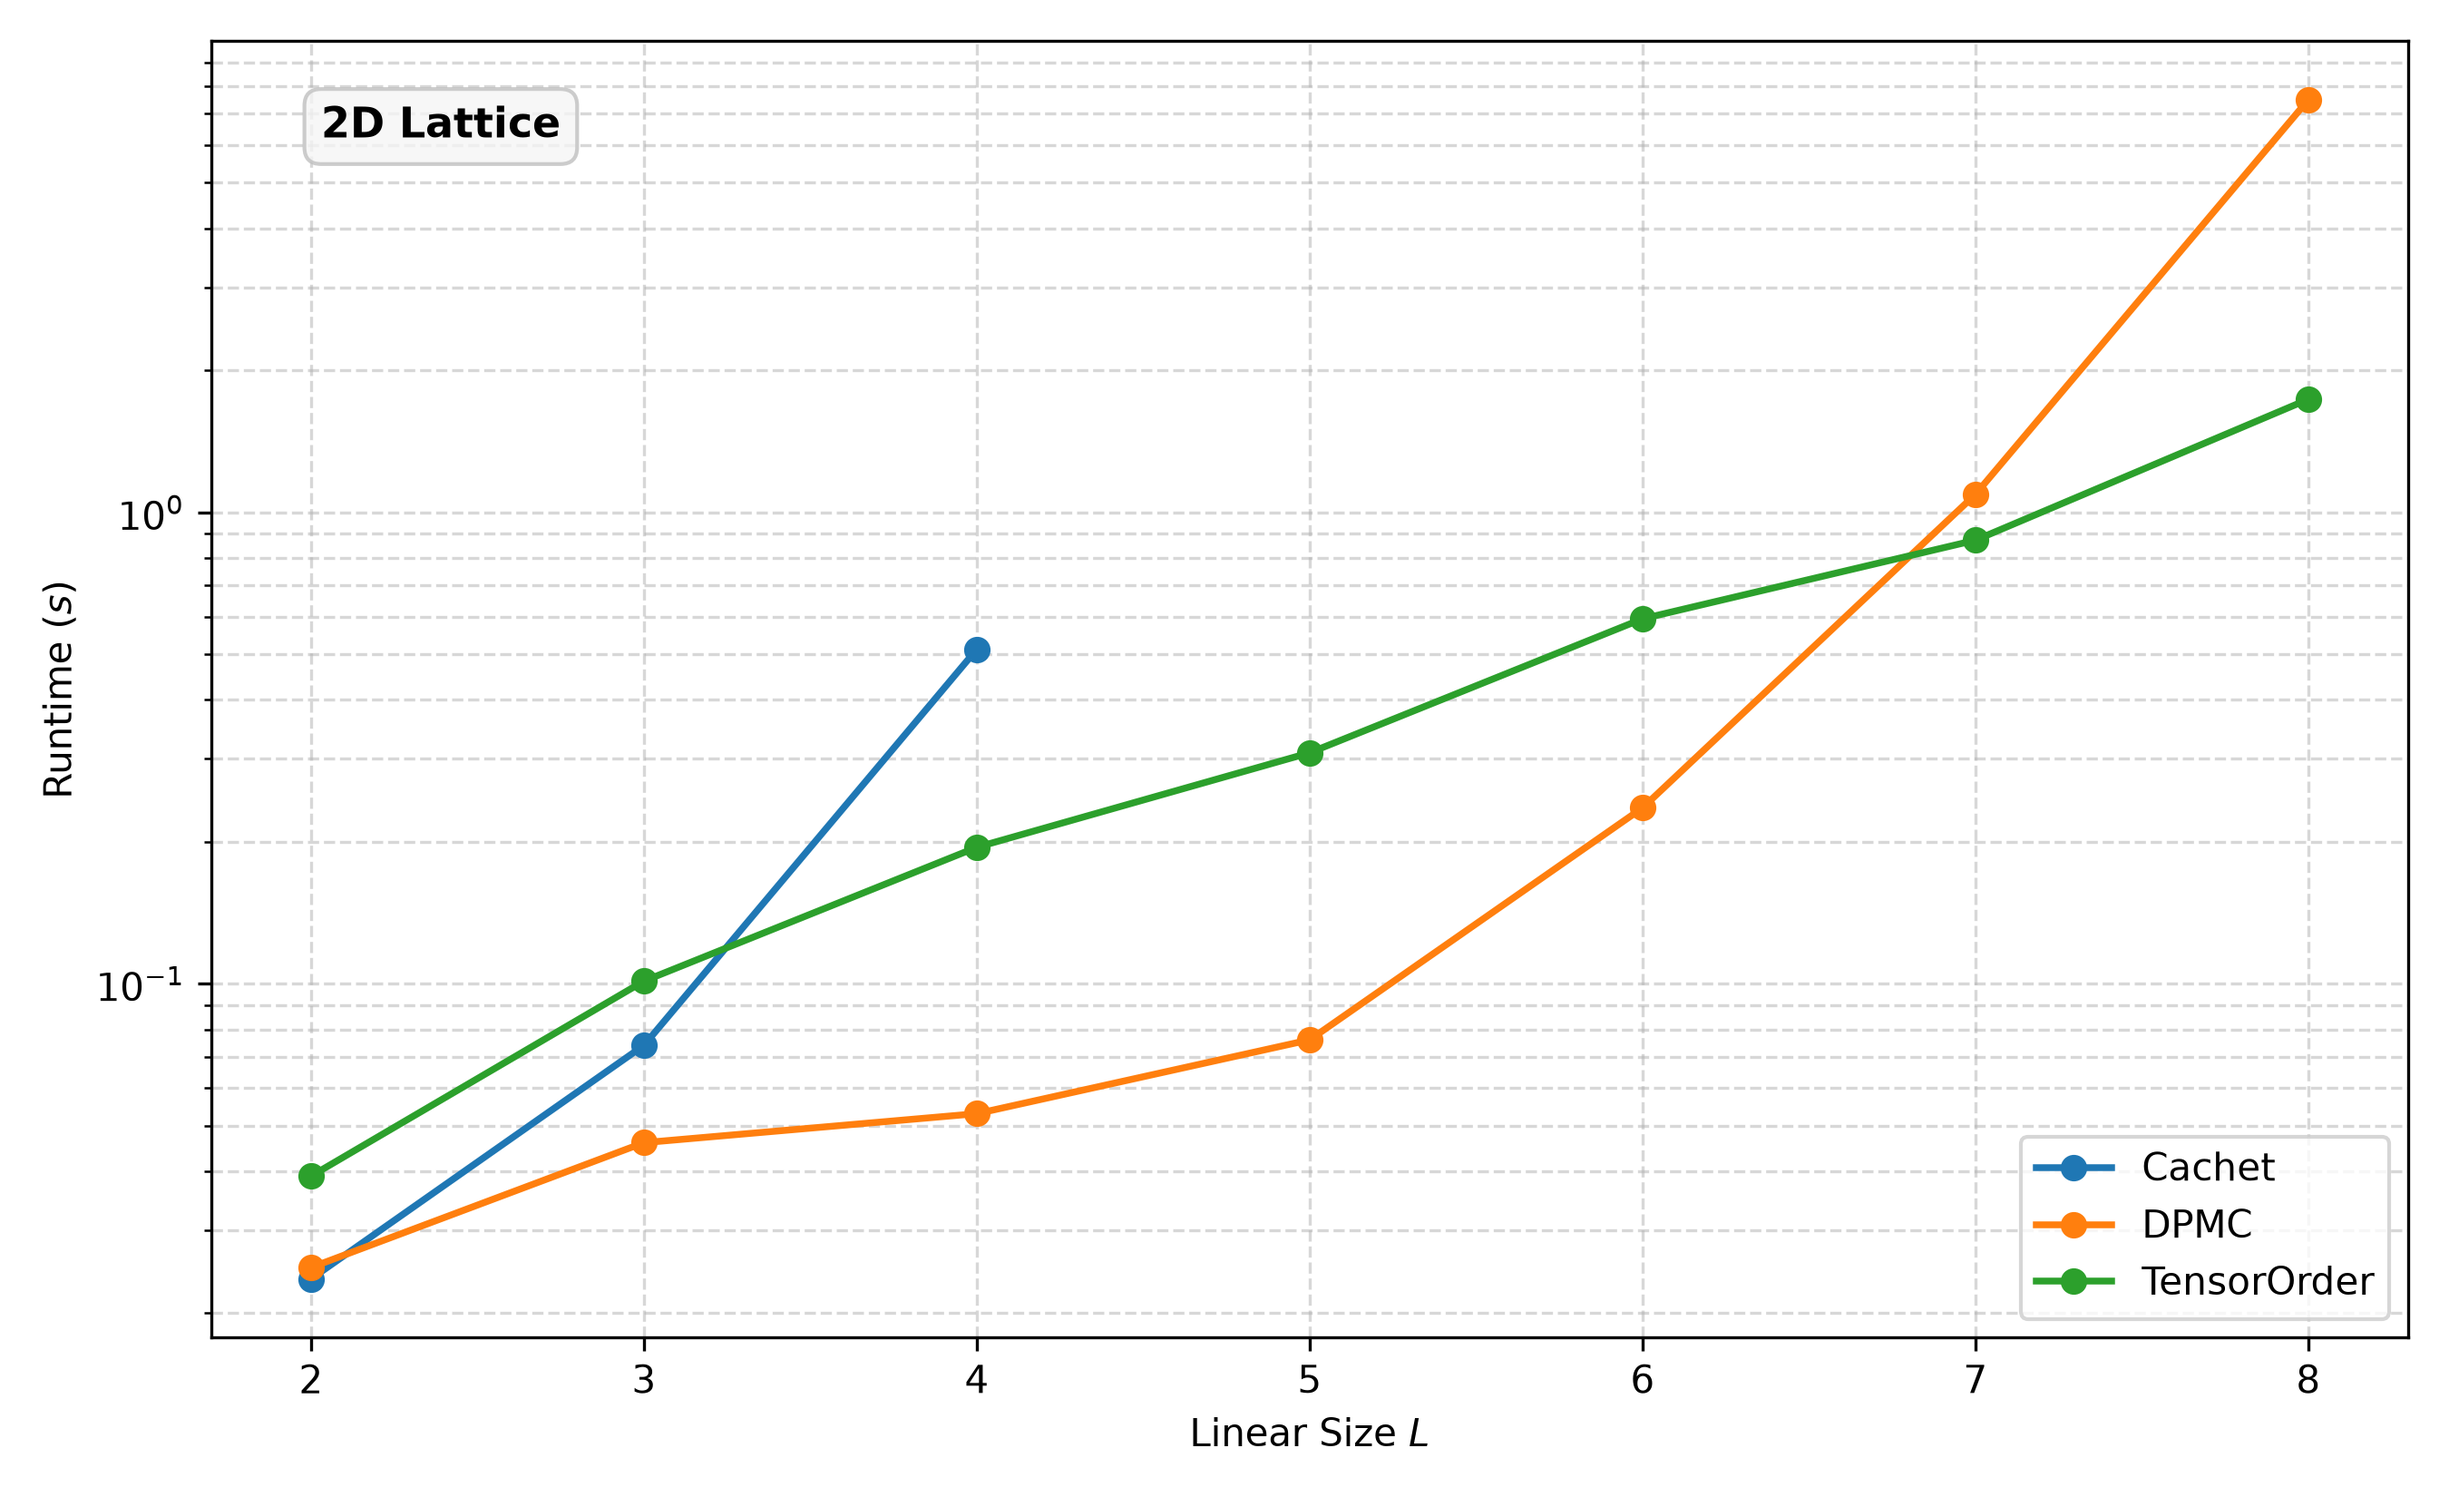
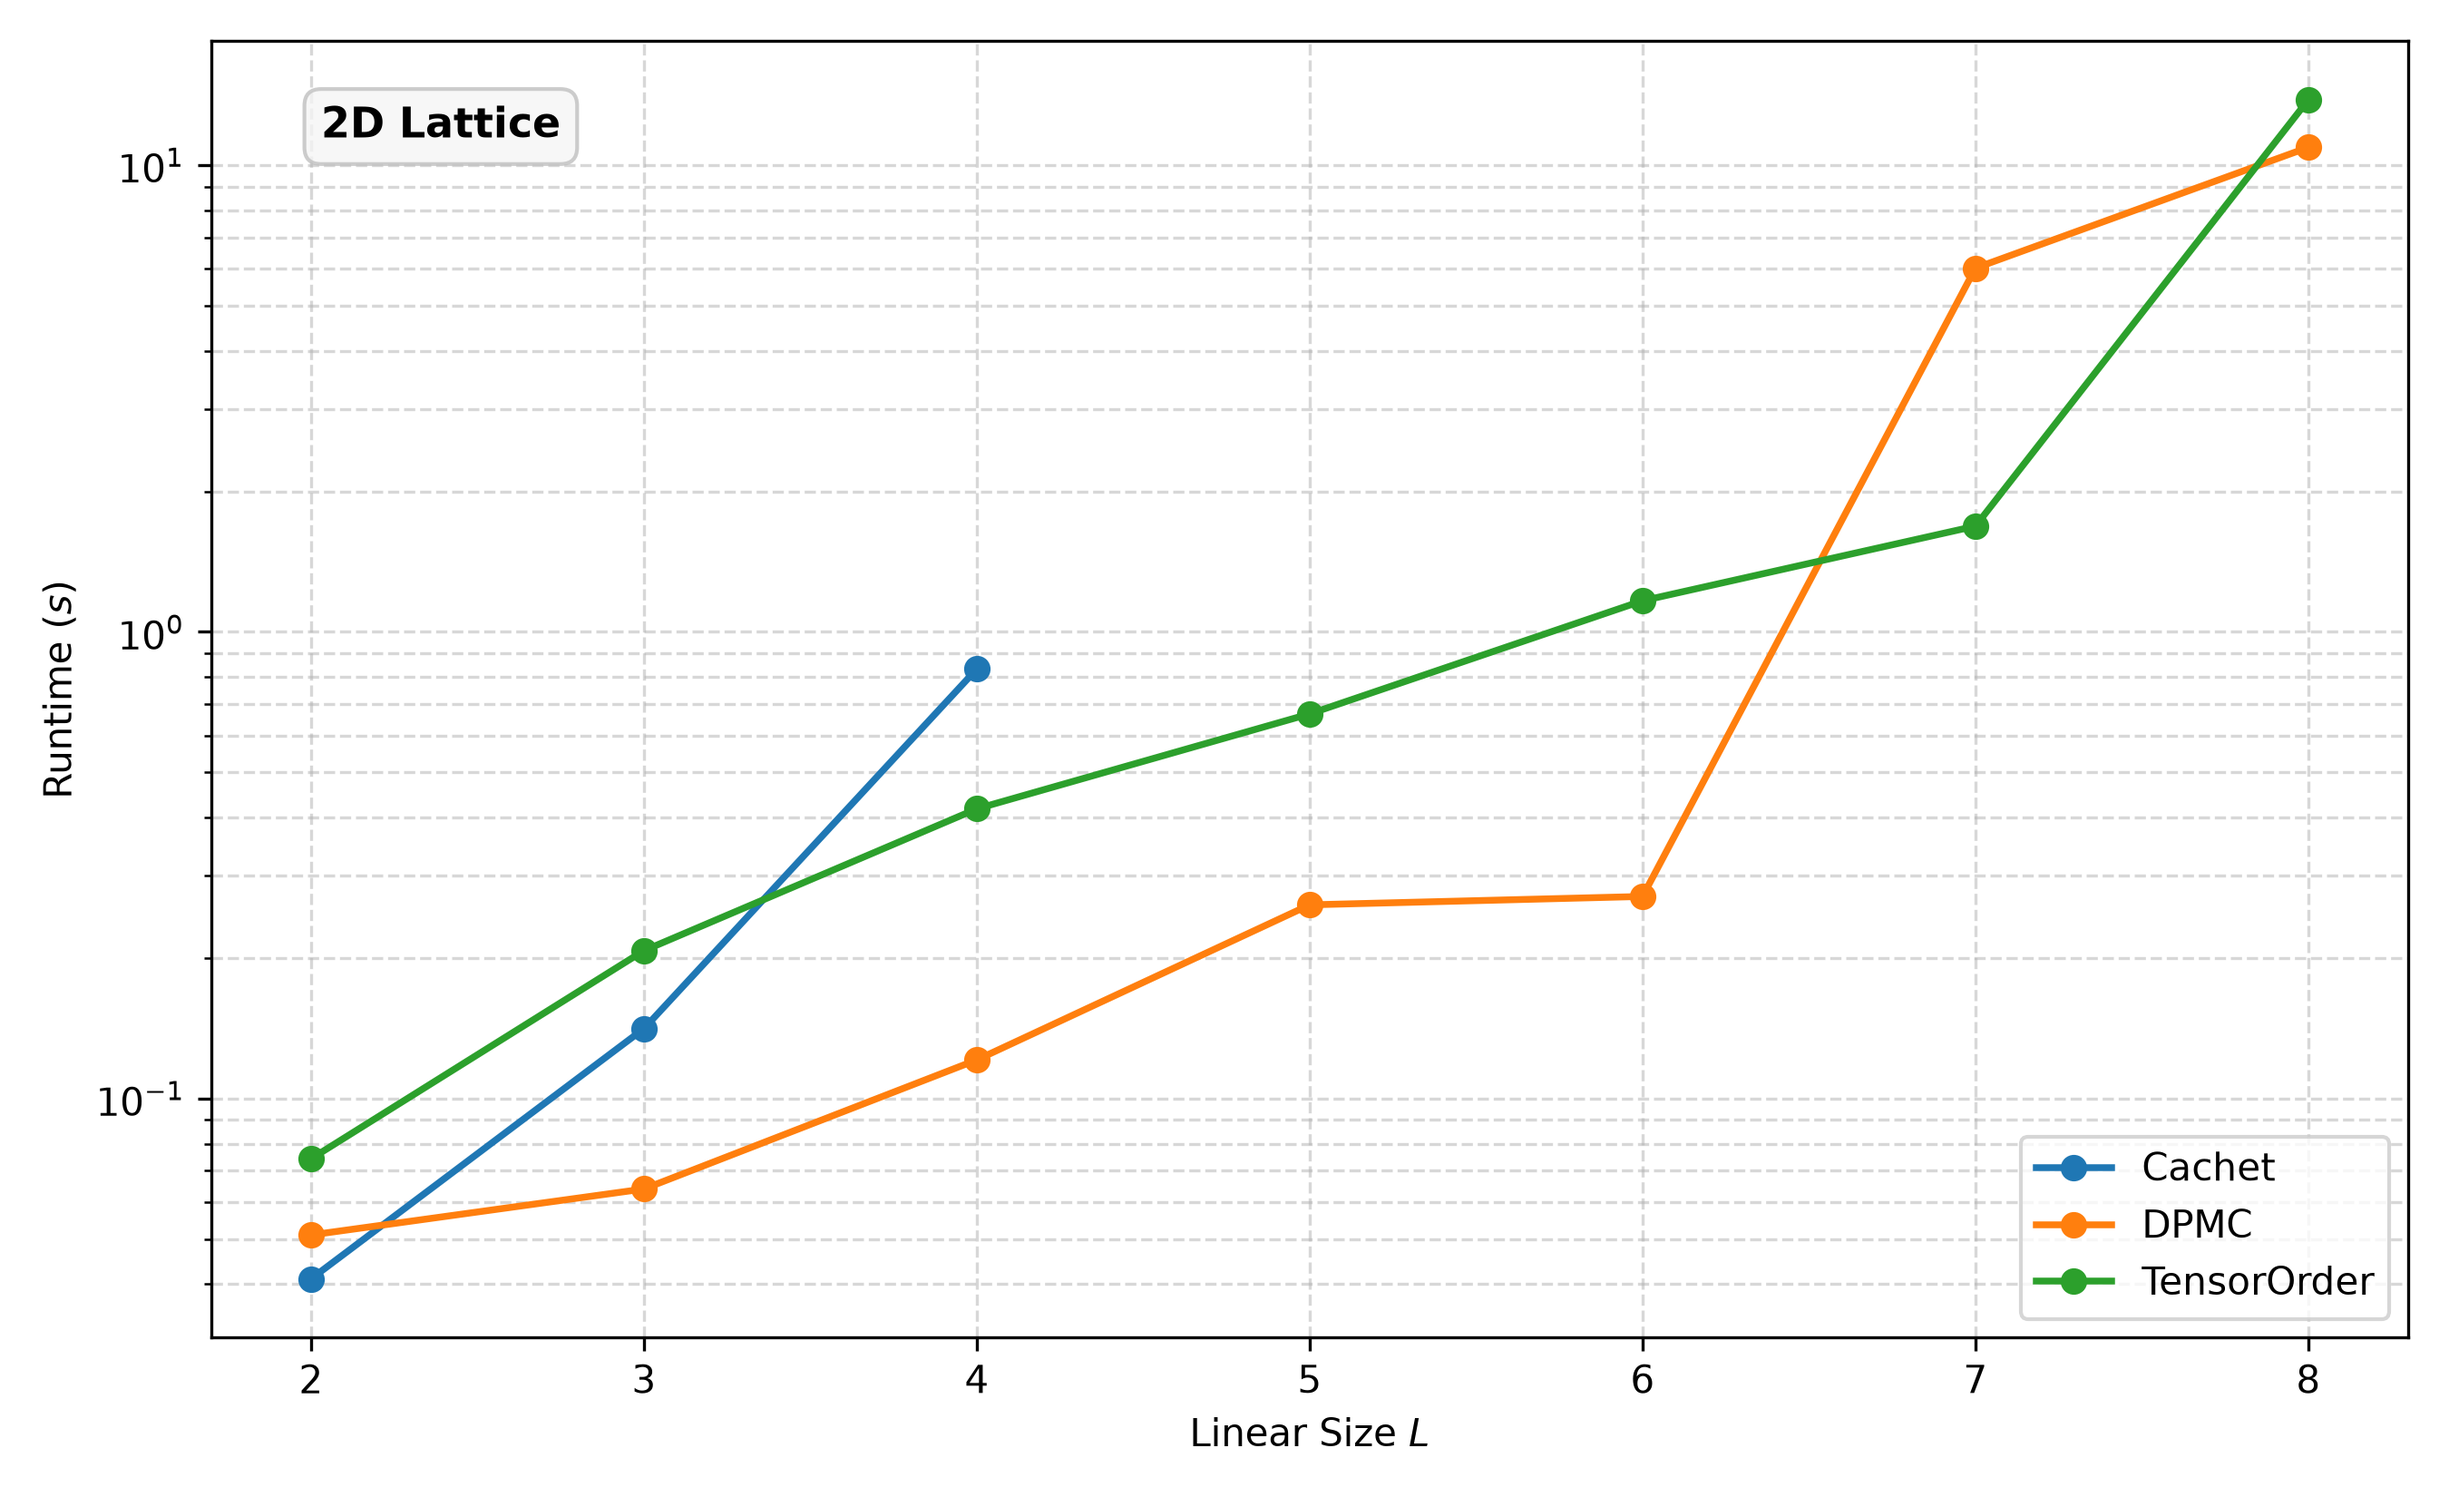
Ising Boolean tests

diff --git a/Iago/Ising_Model.py b/Iago/Ising_Model.py
@@ -48,15 +48,10 @@ def build_partition_function(n_spins, pairs, J, h, beta):
     spin_space = Index(2)
     p0 = ket(spin_space[0]) * bra(spin_space[0])
     p1 = ket(spin_space[1]) * bra(spin_space[1])
-    identity = p0 + p1
     spins = [Reg(spin_space) for i in range(n_spins)]
 
-    # Start with a global identity state
-    identity_factors = []
-    for i in range(n_spins):
-        identity_factors.append(identity | spins[i])
-
-    global_operator = reduce(lambda x, y: x * y, identity_factors)
+    identity_matrix = WCNFMatrix.identity(spin_space,n_spins)
+    global_operator = identity_matrix | spins
 
     # Multiply by Field Operators:
     exp_h = math.exp(beta * h) * p0 + math.exp(-beta * h) * p1
@@ -73,6 +68,58 @@ def build_partition_function(n_spins, pairs, J, h, beta):
 
     # Aligned spins get +J, anti-aligned spins get -J energy
     local_exp_J = exp_plus * q_plus + exp_minus * q_minus
+
+    for i, j in pairs:
+        global_operator = global_operator * (local_exp_J | (spins[i], spins[j]))
+
+    return global_operator
+
+def build_partition_function_opt(n_spins, pairs, J, h, beta):
+    """
+    Builds the logical formula for the partition function of the Ising Model
+    using the boolean formulation
+    """
+    
+    spin_space = Index(2)
+    p0 = ket(spin_space[0]) * bra(spin_space[0])
+    p1 = ket(spin_space[1]) * bra(spin_space[1])
+    spins = [Reg(spin_space) for i in range(n_spins)]
+
+    identity_matrix = WCNFMatrix.identity(spin_space,n_spins)
+    global_operator = identity_matrix | spins
+    q = spin_space.q
+
+    # Multiply by Field Operators:
+    a_field = get_var_rep_type()(q)
+    
+    weight_func_h = WeightFunction([*a_field.domain()])
+    weight_func_h.fill(1.0)
+    
+    spin_var = a_field.domain()[0] 
+    
+    weight_func_h[spin_var, True] = math.exp(beta * h)
+    weight_func_h[spin_var, False] = math.exp(-beta * h)
+    
+    exp_h_matrix = WCNFMatrix(spin_space, CNF(), weight_func_h, [a_field], [a_field])
+
+    for i in range(n_spins):
+        global_operator = global_operator * (exp_h_matrix | spins[i])
+
+    # Multiply by Interactions Operators:
+    exp_plus = math.exp(beta * J)
+    exp_minus = math.exp(-beta * J)
+
+    a, b = get_var_rep_type()(q), get_var_rep_type()(q)
+    c = BoolVar()
+    cnf_eq, aux_vars = a.equals_other_to_var(b, c) # c = True if spins aligned, c = False if not
+
+    weight_func = WeightFunction([*a.domain(), *b.domain(), c, *aux_vars])
+    weight_func.fill(1.0)
+    # Assign the weights to the corresponding "c" value
+    weight_func[c, True] = exp_plus
+    weight_func[c, False] = exp_minus
+
+    local_exp_J = WCNFMatrix(spin_space, cnf_eq, weight_func, [a, b], [a, b])
 
     for i, j in pairs:
         global_operator = global_operator * (local_exp_J | (spins[i], spins[j]))
@@ -96,7 +143,7 @@ def run_ising(spin_range, solvers, dim, J, h, beta):
     for L in spin_range:
         pairs, n_spins = generate_grid_pairs(dim, L)
 
-        logical_formula = build_partition_function(n_spins, pairs, J, h, beta)
+        logical_formula = build_partition_function_opt(n_spins, pairs, J, h, beta)
         cnf, weight_function = logical_formula.mat.trace_formula()
 
         row_output = f"{L:<4} | {n_spins:<4} | "
@@ -193,13 +240,13 @@ if __name__ == "__main__":
         "TensorOrder": TensorOrder
     }
     
-    J = 1.5
-    h = 0.5
+    J = 1.0
+    h = 1.0
     beta = 1.0
     dim = 2
-    L = [2, 3, 4, 5, 6, 7, 8]
+    L = [l for l in range(2,21)]
 
-    Output_dir = f"../Iago/Output/Ising_{dim}D/Run_4"
+    Output_dir = f"../Iago/Output/Ising_{dim}D/Run_6"
 
     timings, z_vals = run_ising(L, active_solvers, dim, J, h, beta)
     save_and_plot(L, dim, timings, active_solvers, Output_dir)
